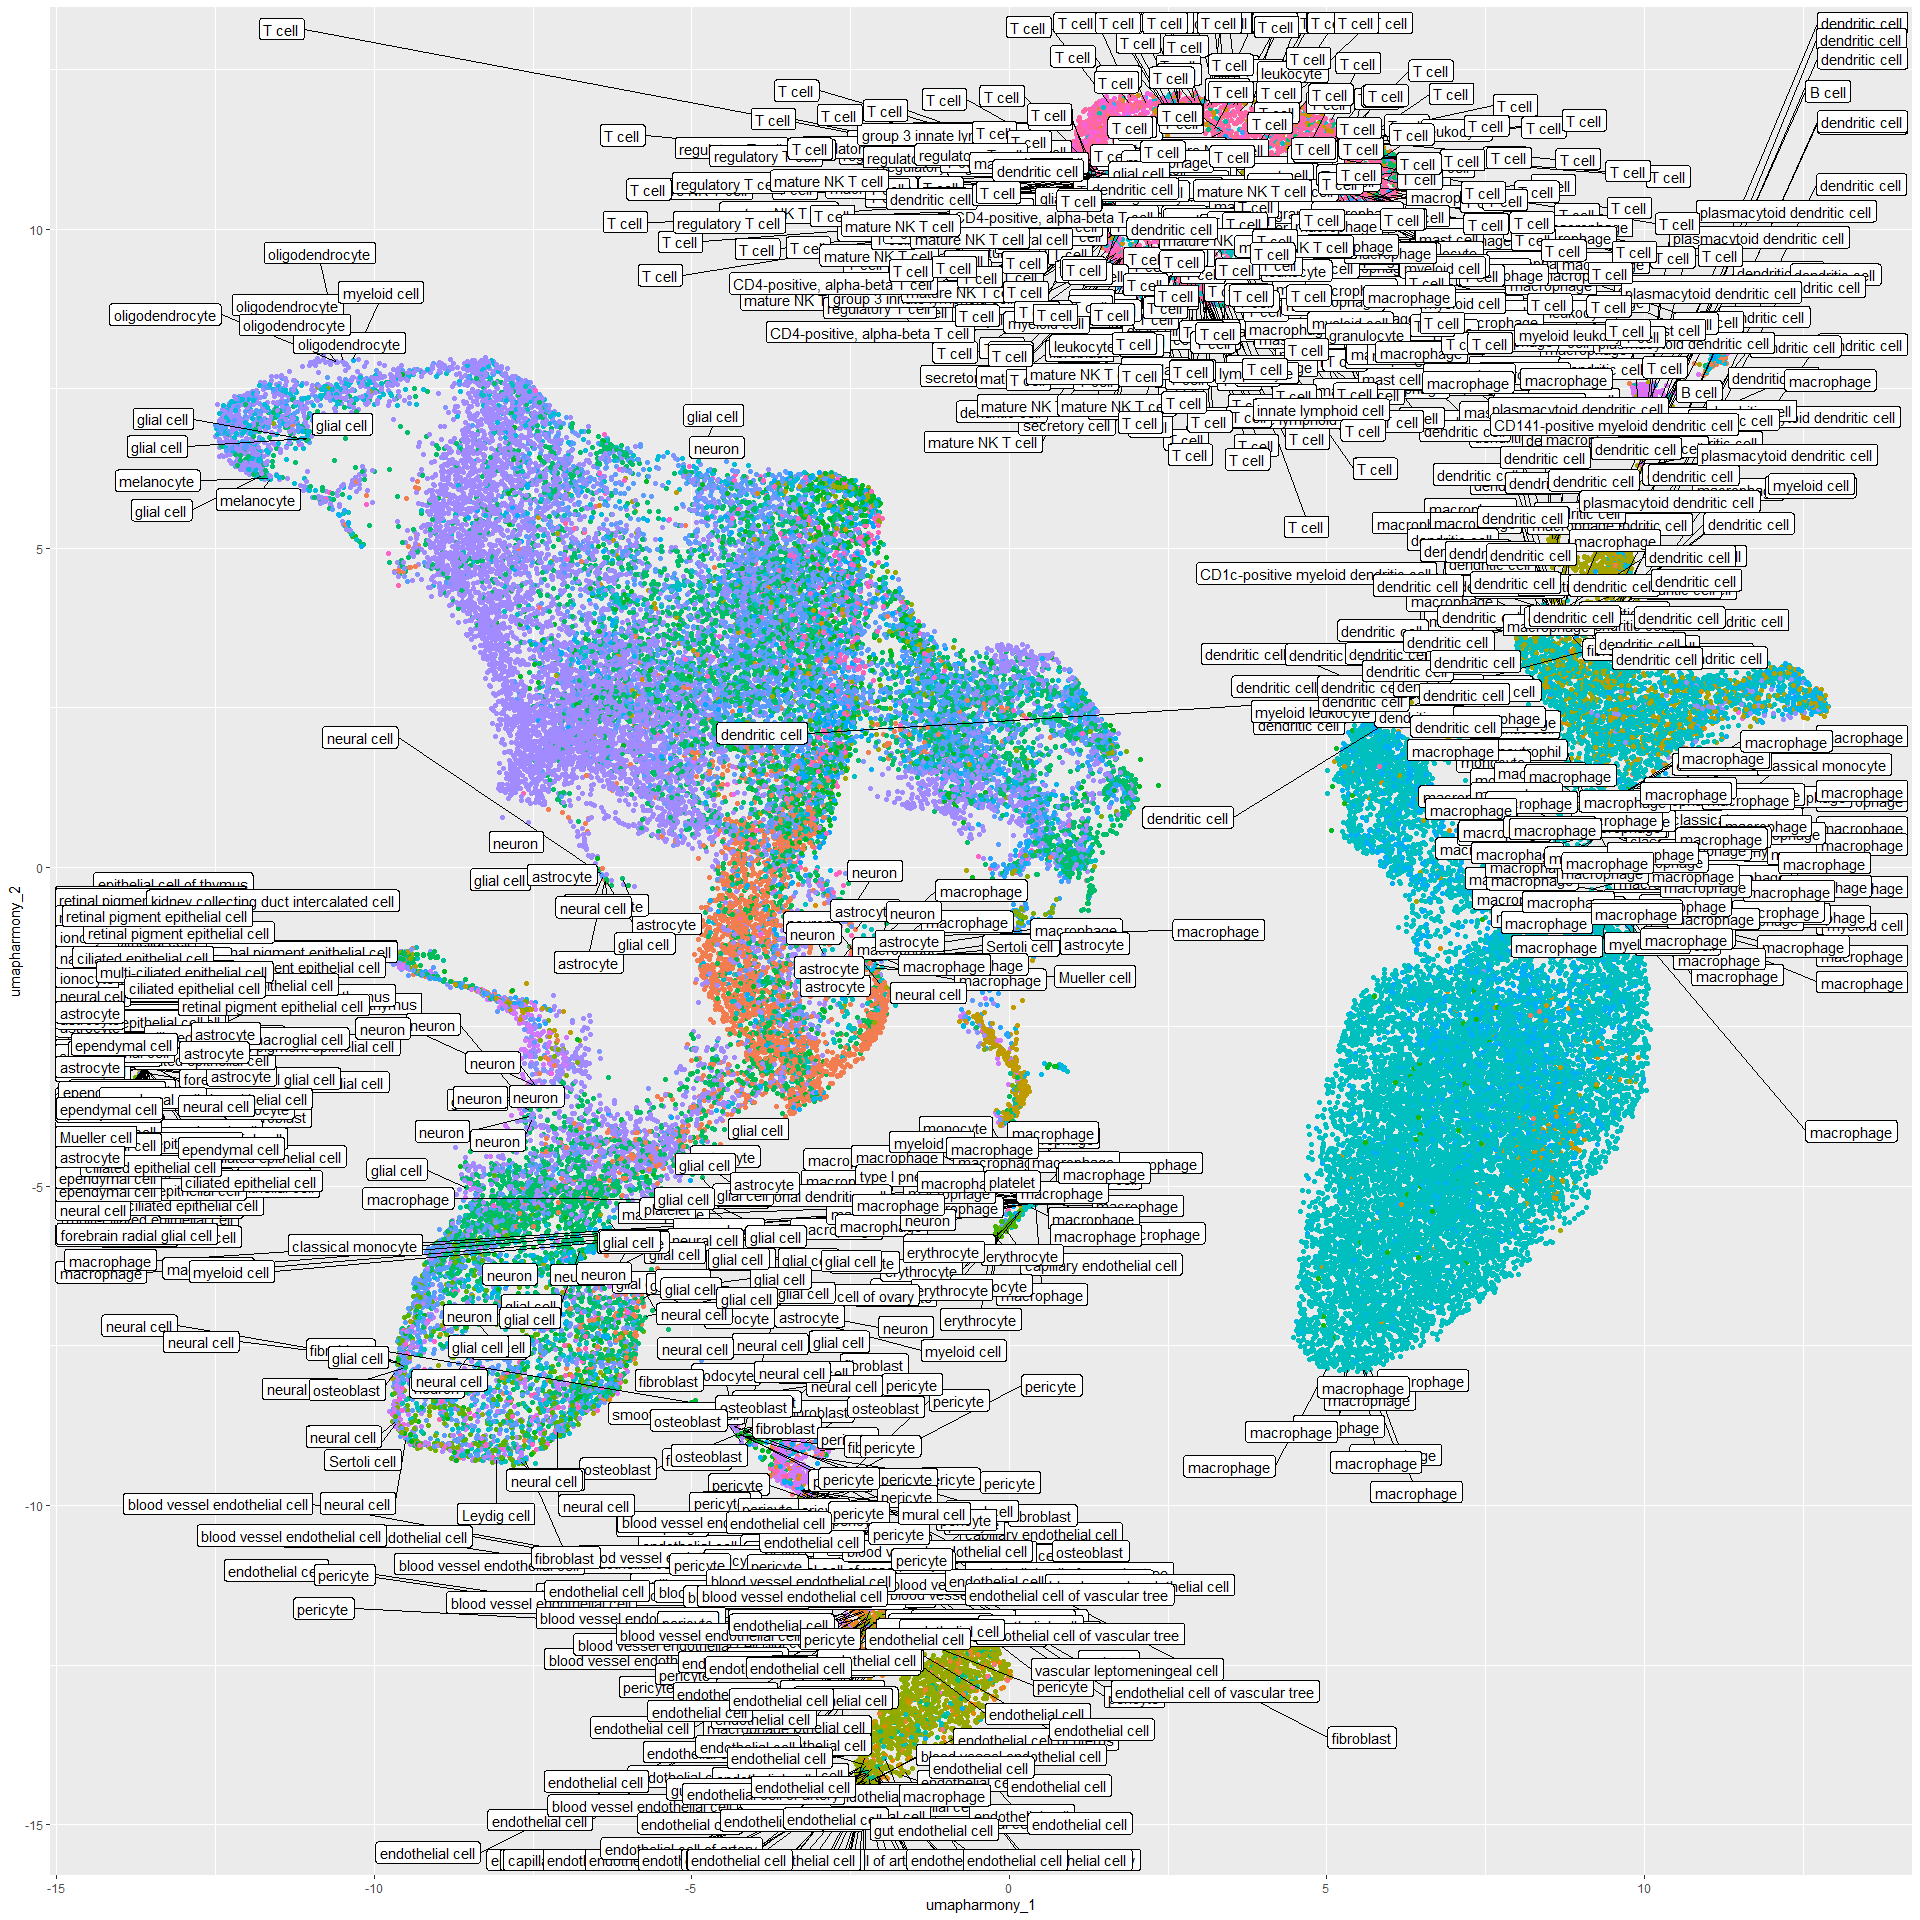
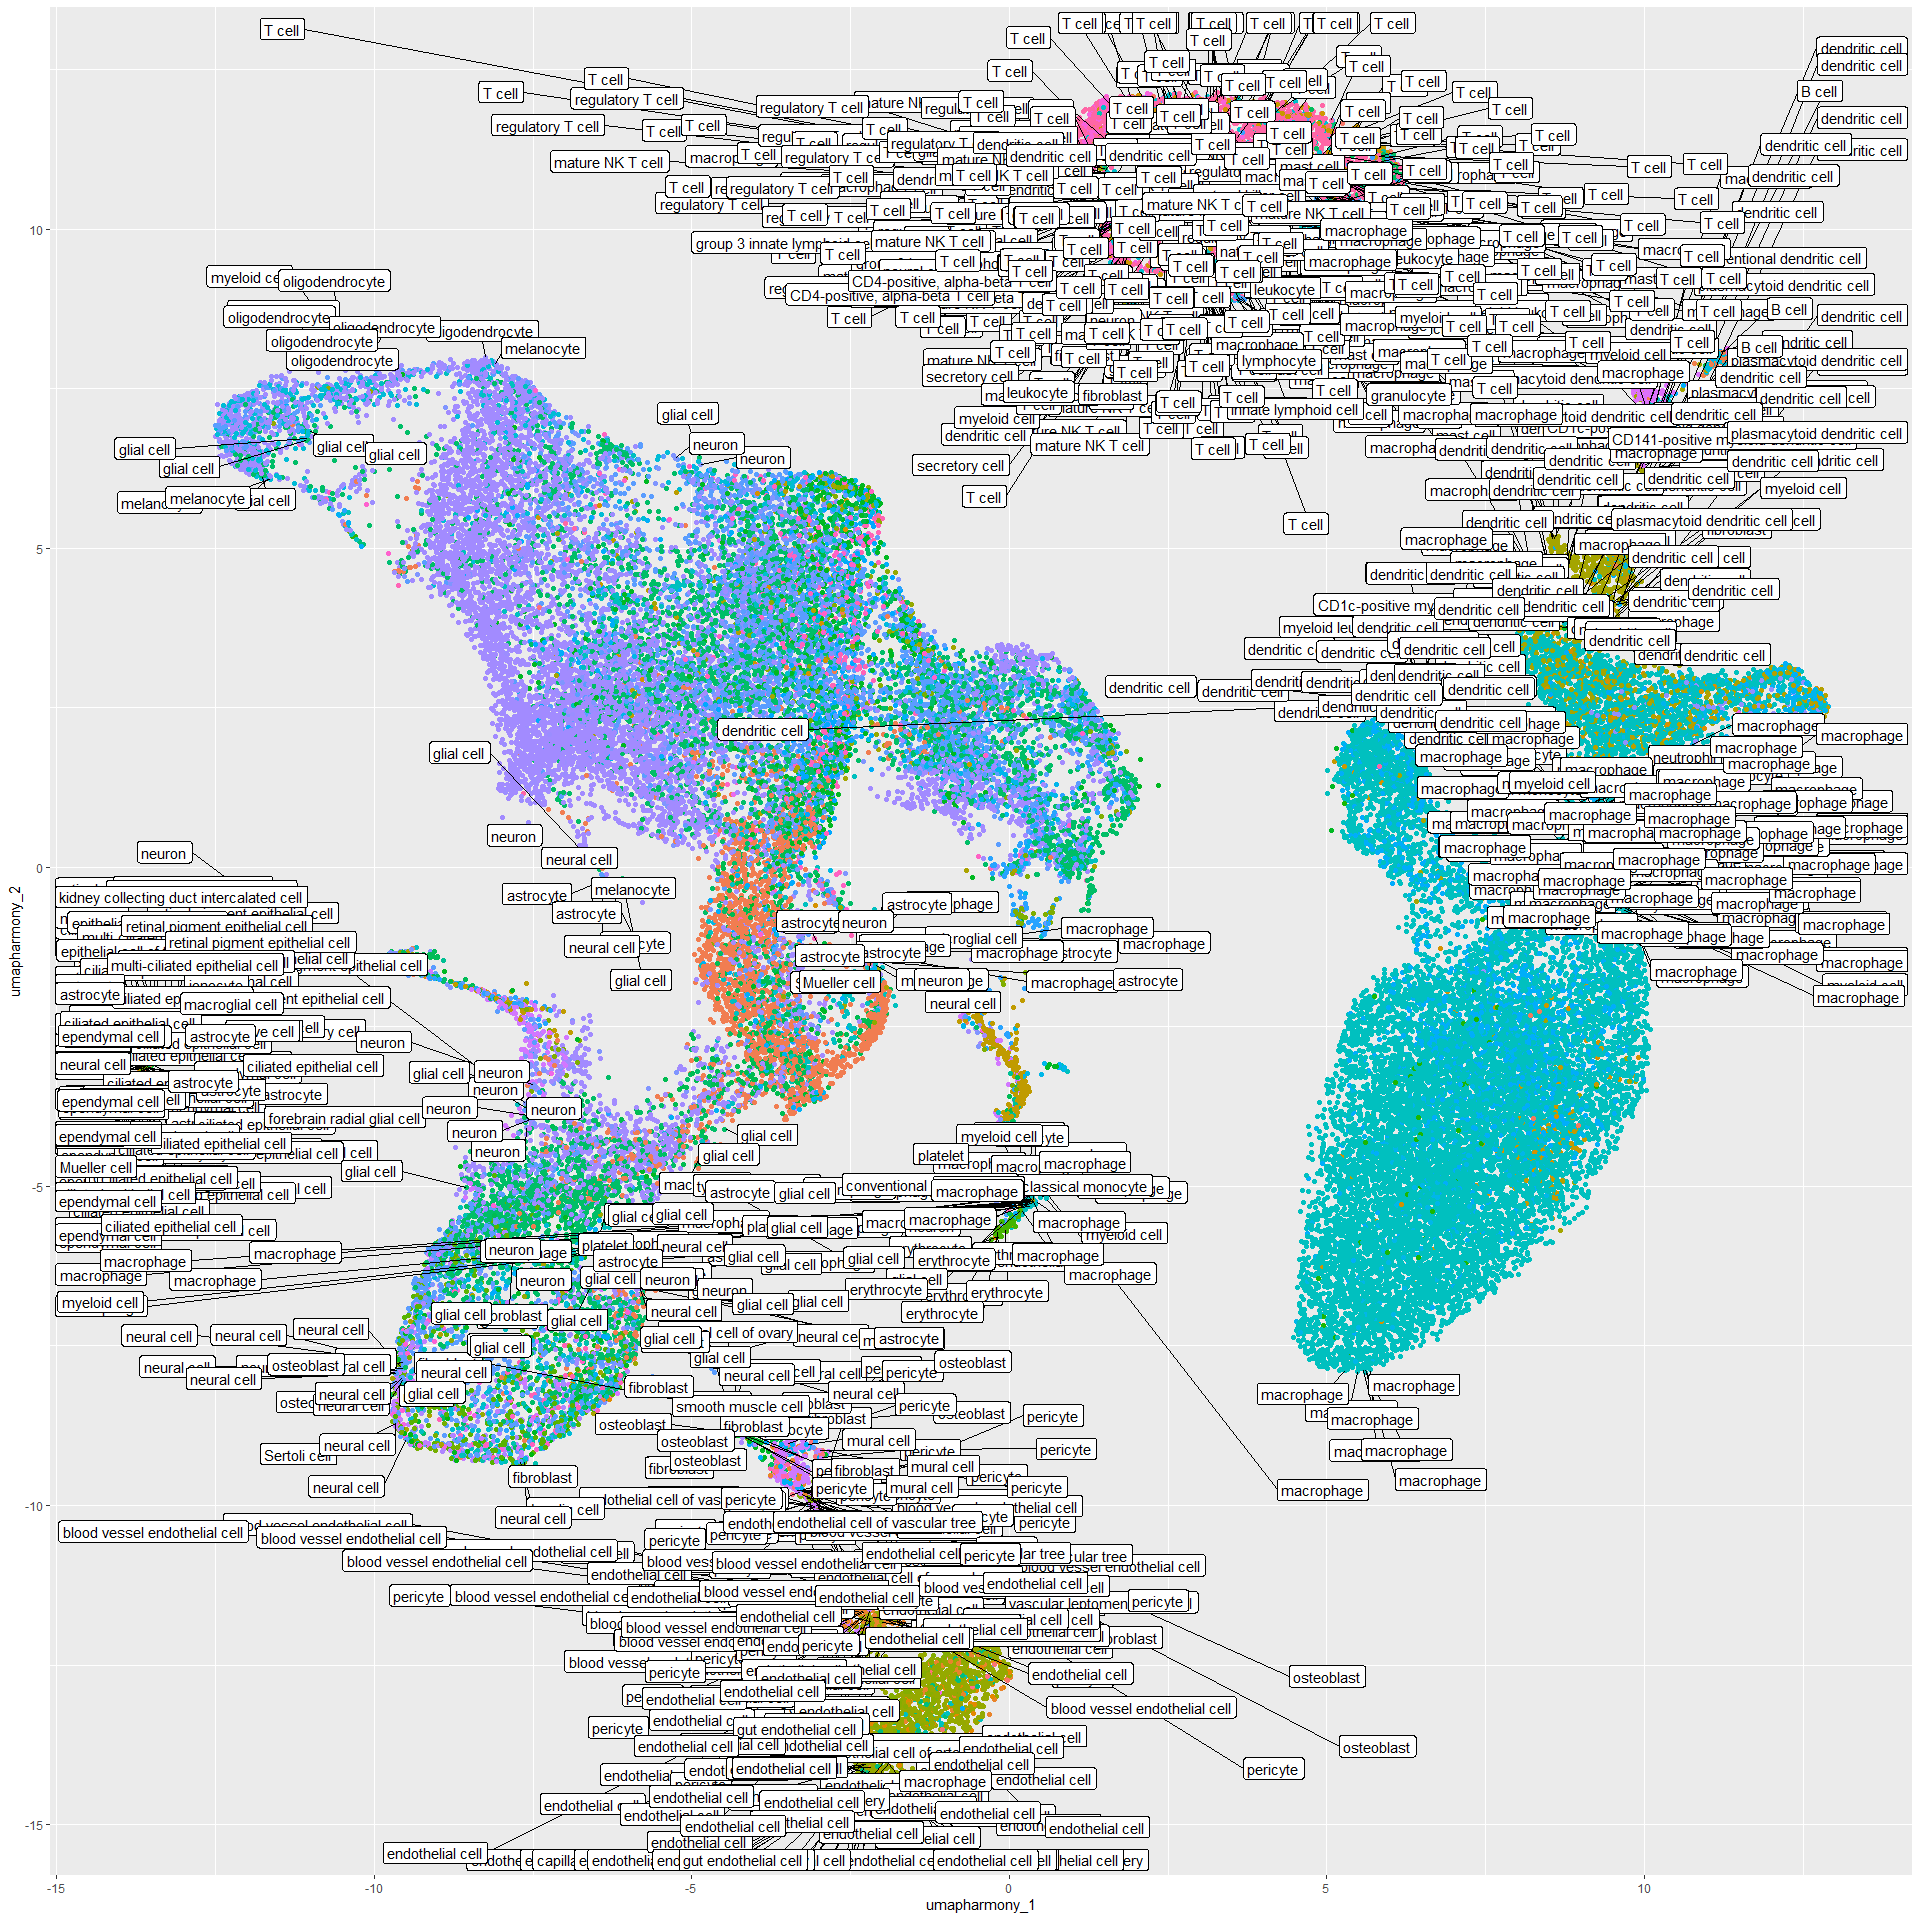
Updating plots

diff --git a/README.md b/README.md
@@ -21,6 +21,9 @@ This is a working document -- updates to code can be pushed in real time for eas
 LLM-based cell annotation on which cluster annotations are based.
 ![](README_files/figure-html/umap_scgpt-1.png)<!-- -->
 
+Cluster annotations based on the above.
+![](README_files/figure-html/umap_labeled-1.png)<!-- -->
+
 ***
 ### UMAP plots demonstrating expression
 ![](README_files/figure-html/umap_plots-1.png)<!-- -->
